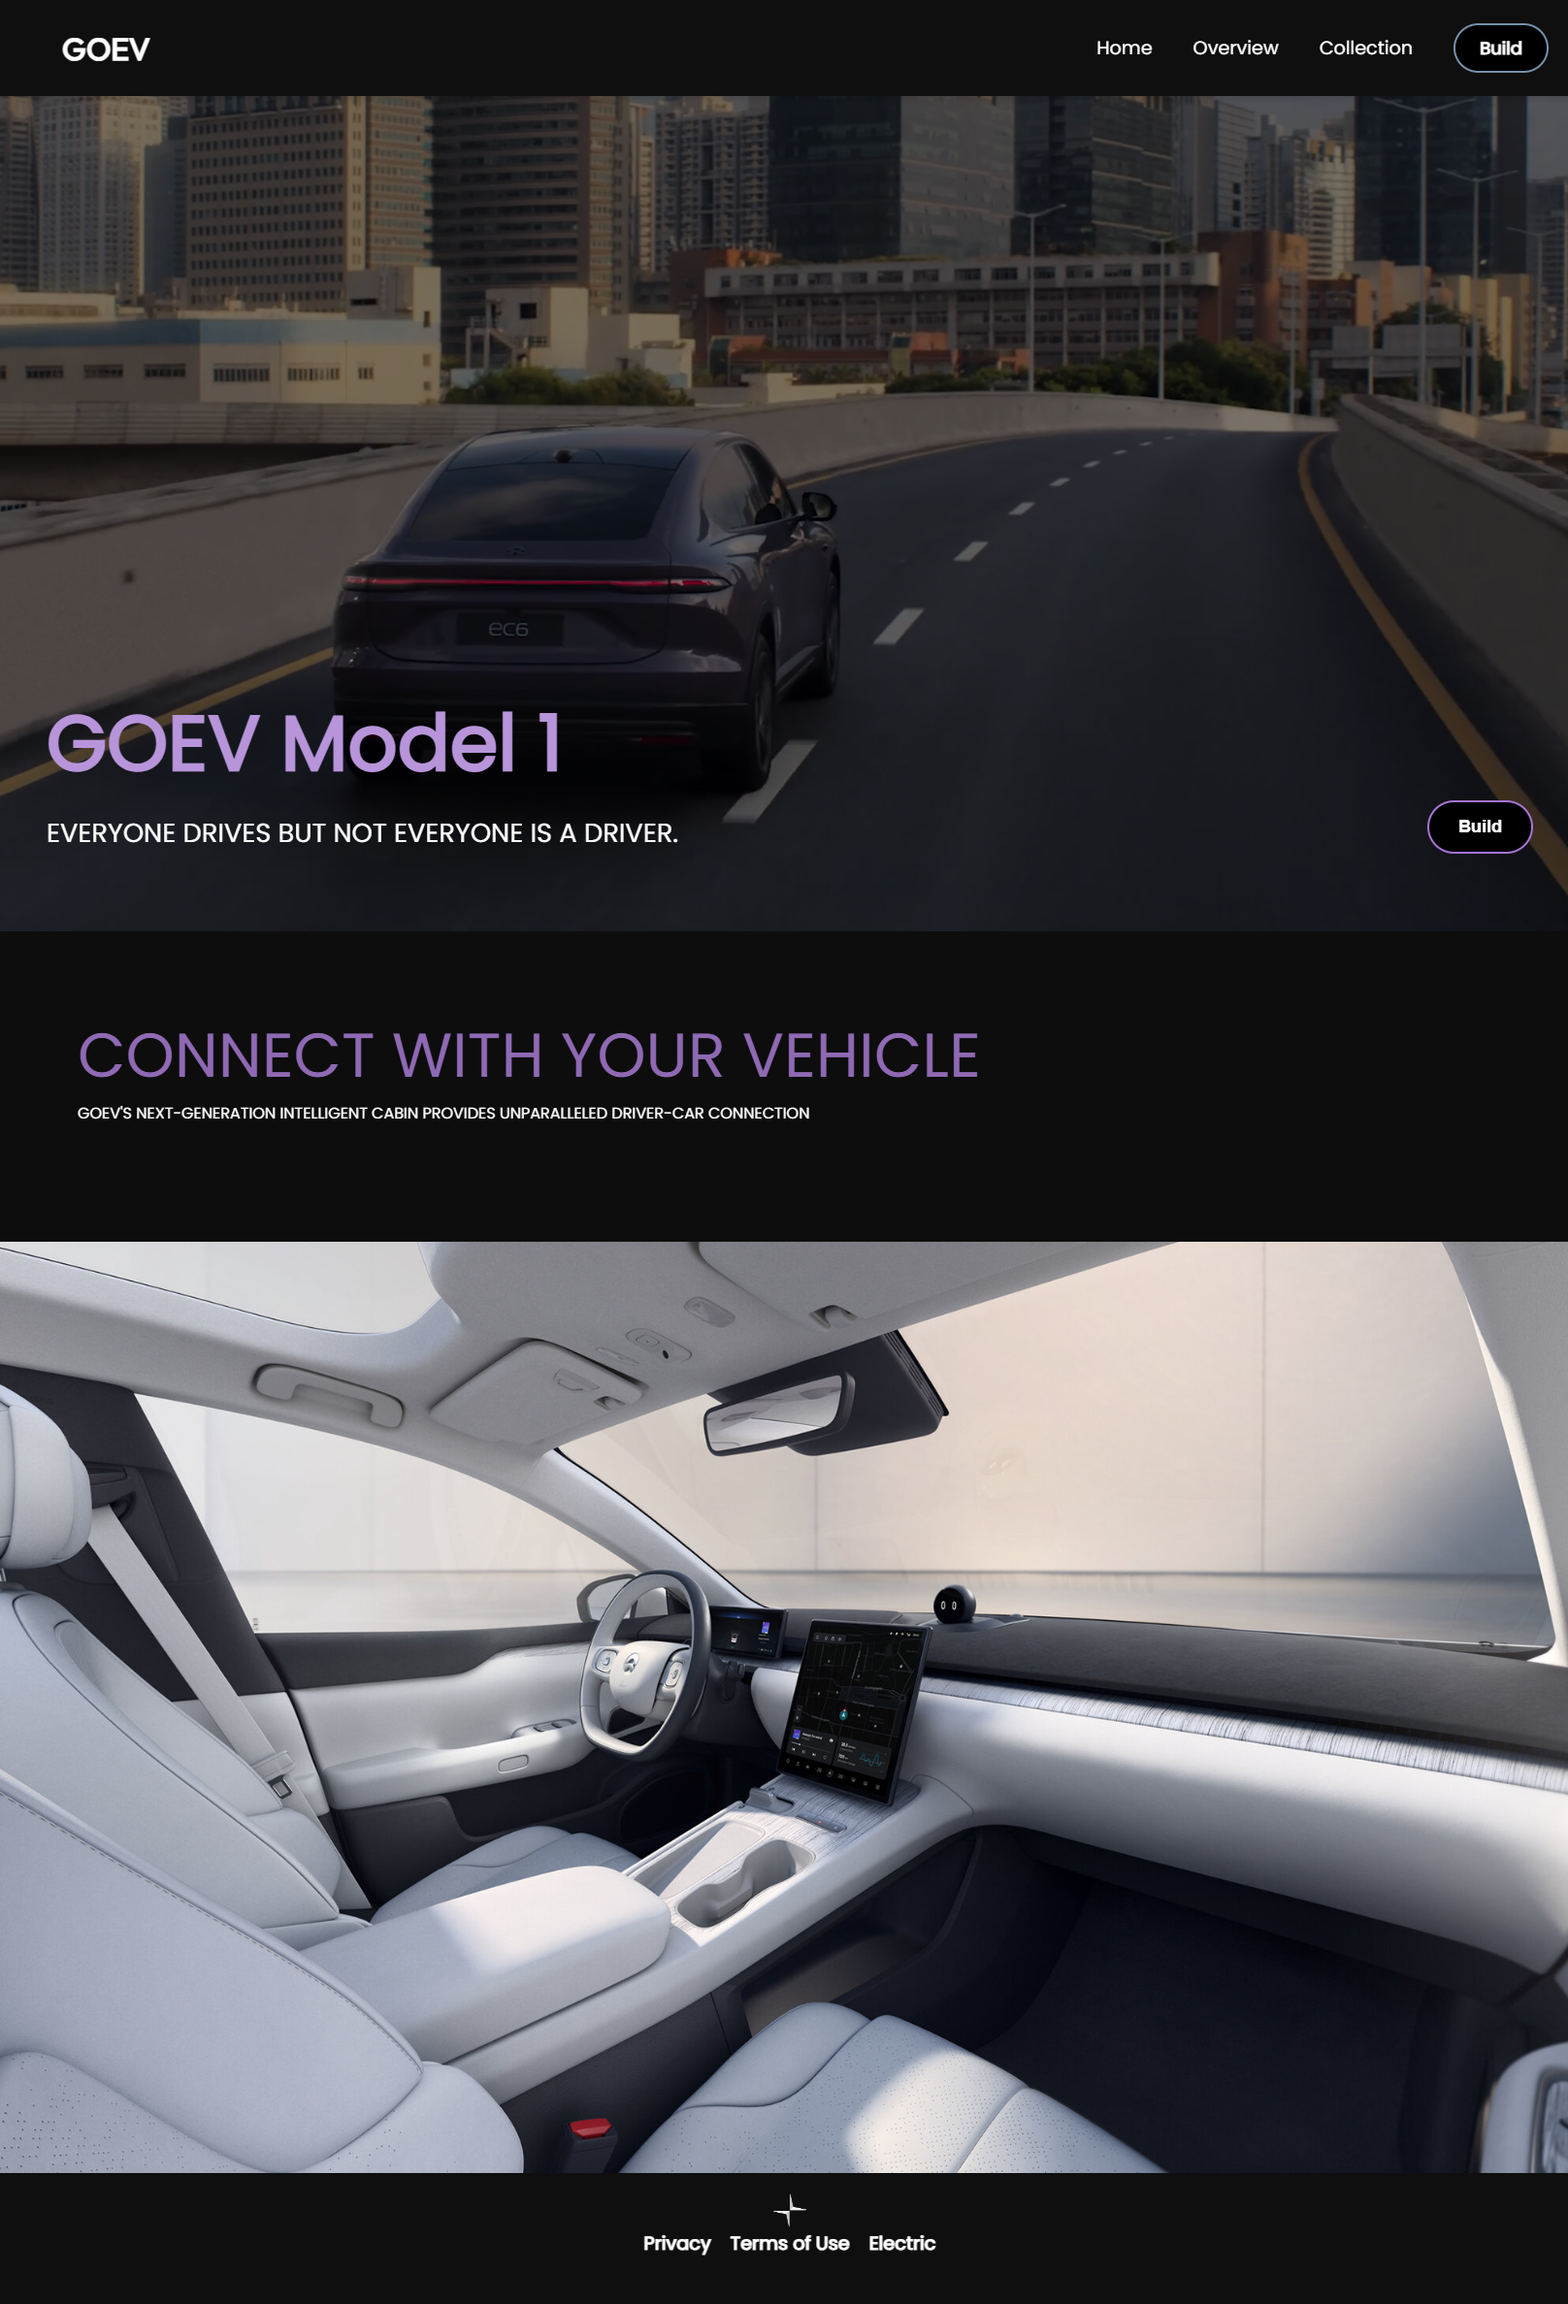
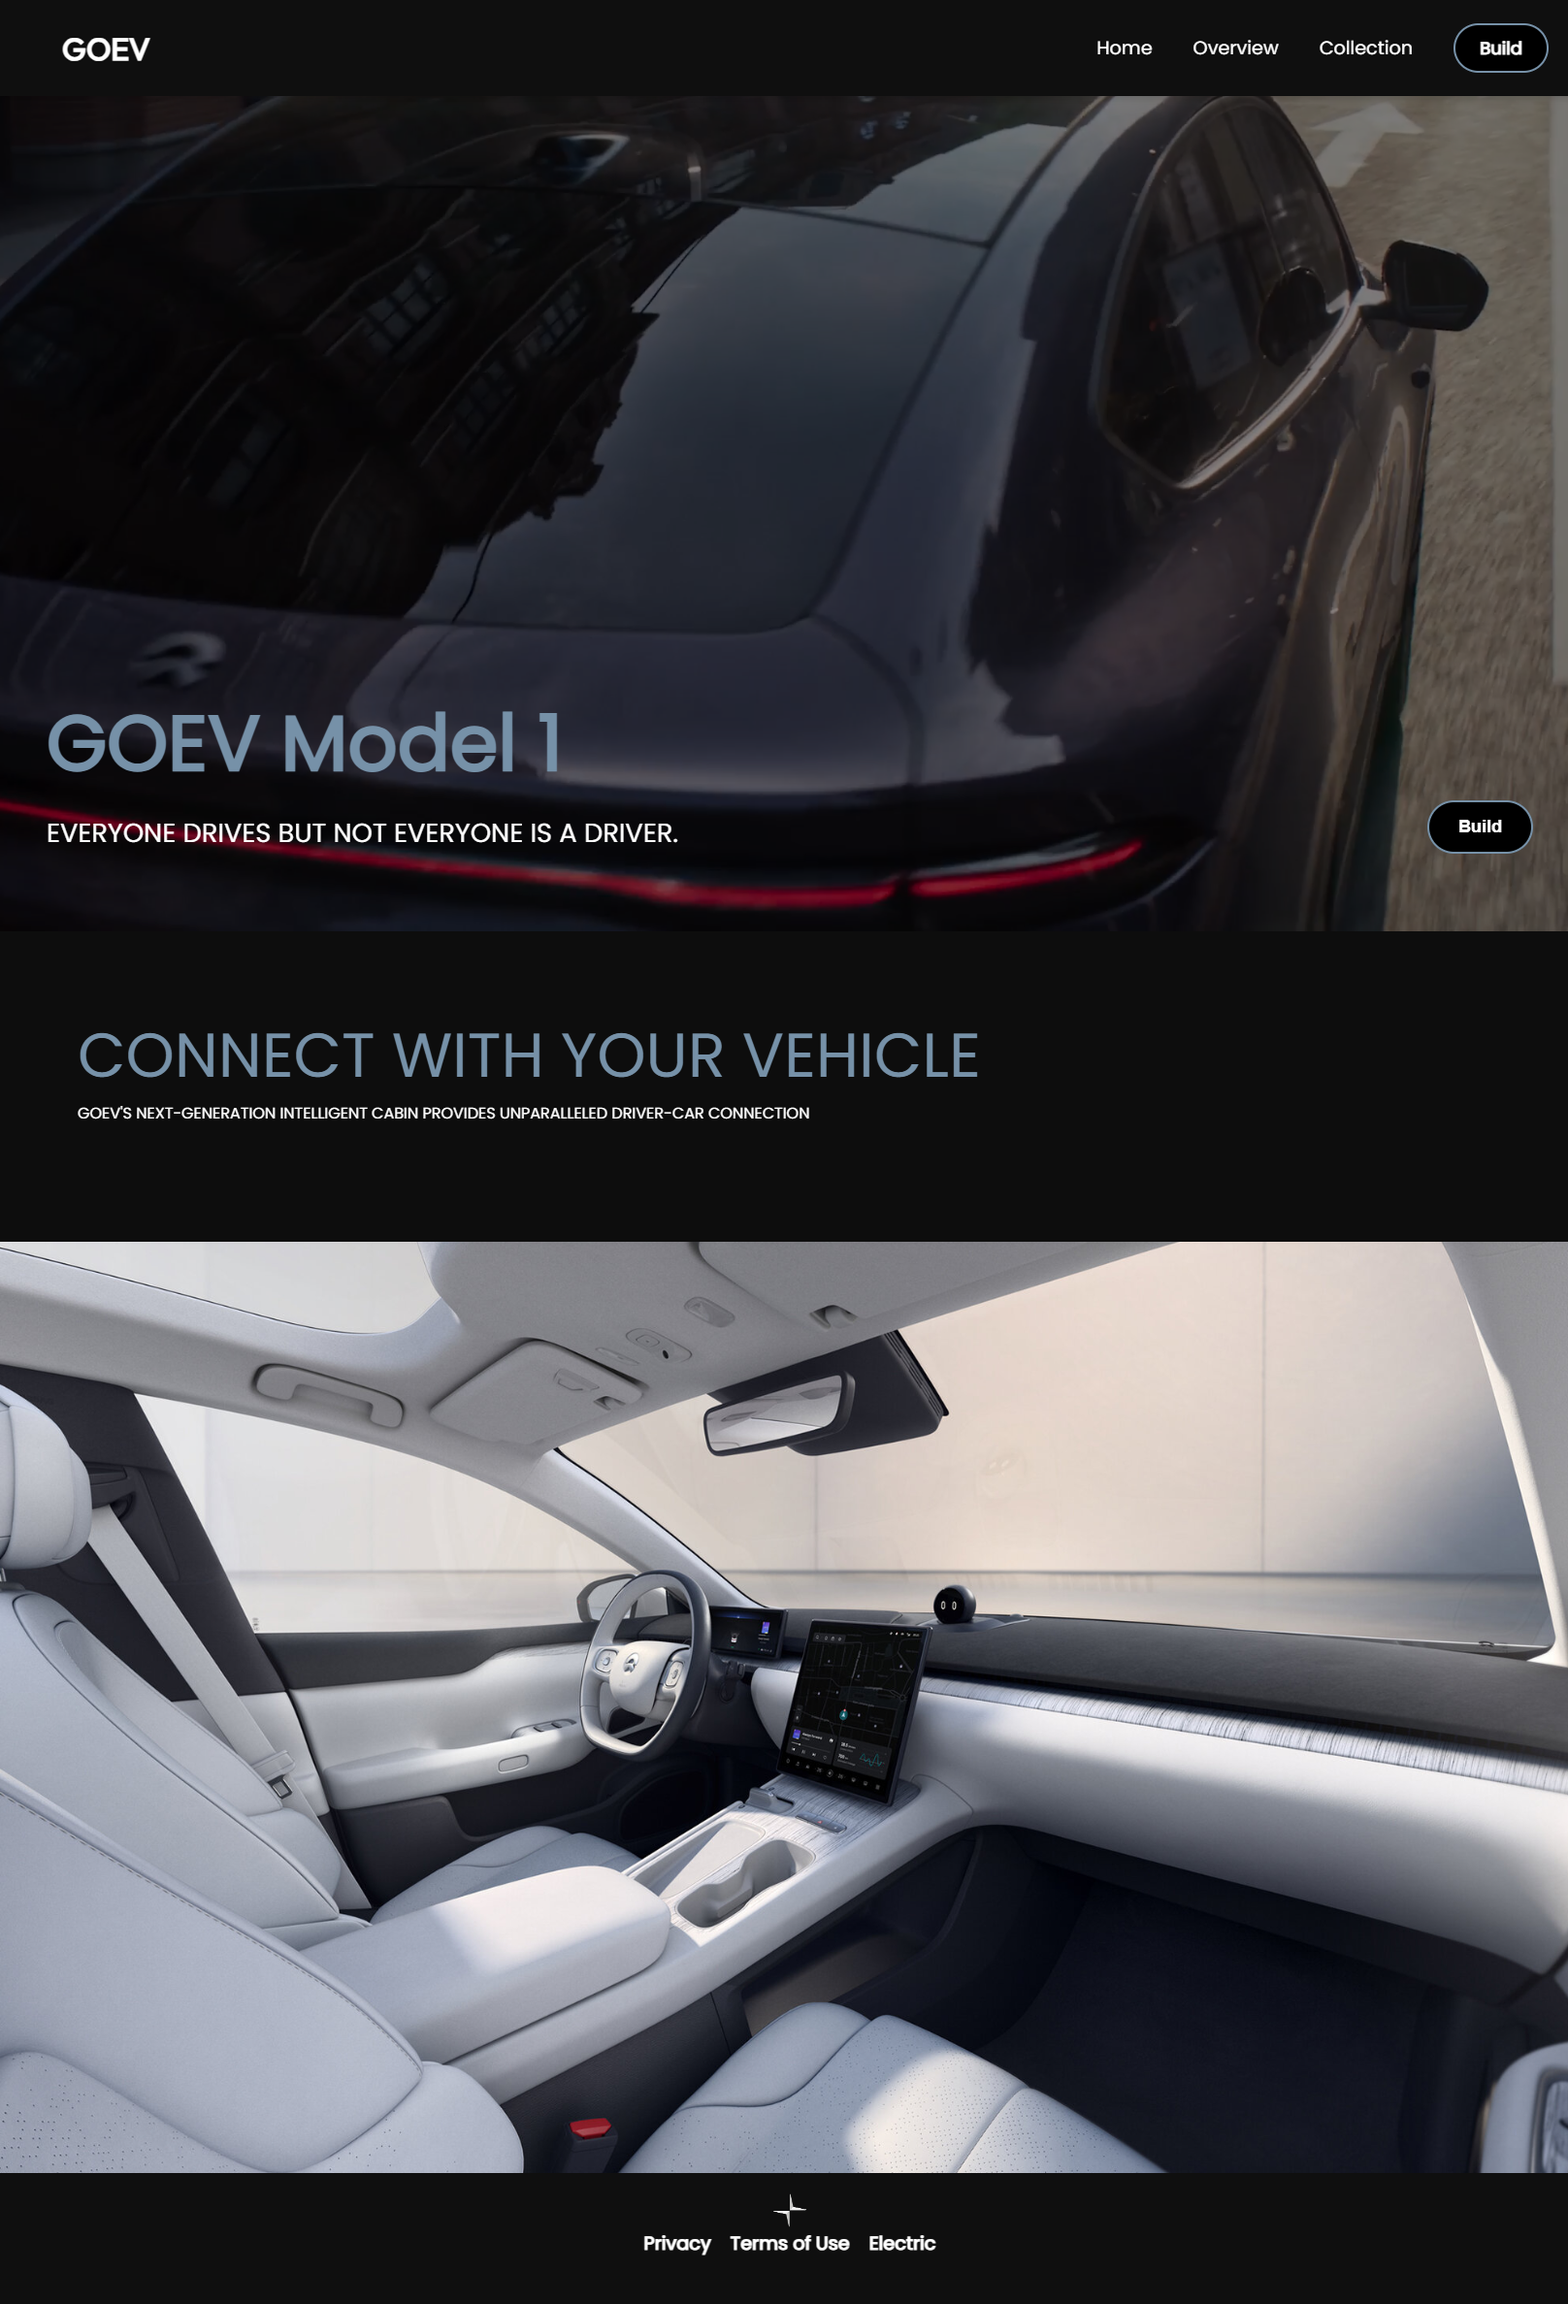
changed website colors and readme img

Changed region(s): [[0.0, 0.0312, 1.0, 0.4051], [0.0619, 0.4362, 0.6188, 0.4674], [0.7116, 0.2493, 0.7735, 0.3116]]

diff --git a/src/styles/CarVideo.css b/src/styles/CarVideo.css
@@ -32,7 +32,7 @@
   }
 }
 .video__title {
-  color: #b895da;
+  color: #7691a8;
   font-size: 3rem;
   @media (max-width: 700px) {
     font-size: 2rem;
@@ -59,7 +59,7 @@
 .video__button {
   background-color: #000;
   border-radius: 1.875rem;
-  border: 0.125rem solid #a675d4;
+  border: 0.125rem solid #7691a8;
   color: #f5f5f5;
   cursor: pointer;
   display: inline-block;

diff --git a/src/styles/CarMain.css b/src/styles/CarMain.css
@@ -22,7 +22,7 @@
 .main__button {
   background-color: #000;
   border-radius: 1.875rem;
-  border: 0.125rem solid #a675d4;
+  border: 0.125rem solid #7691a8;
   color: #f5f5f5;
   cursor: pointer;
   display: inline-block;
